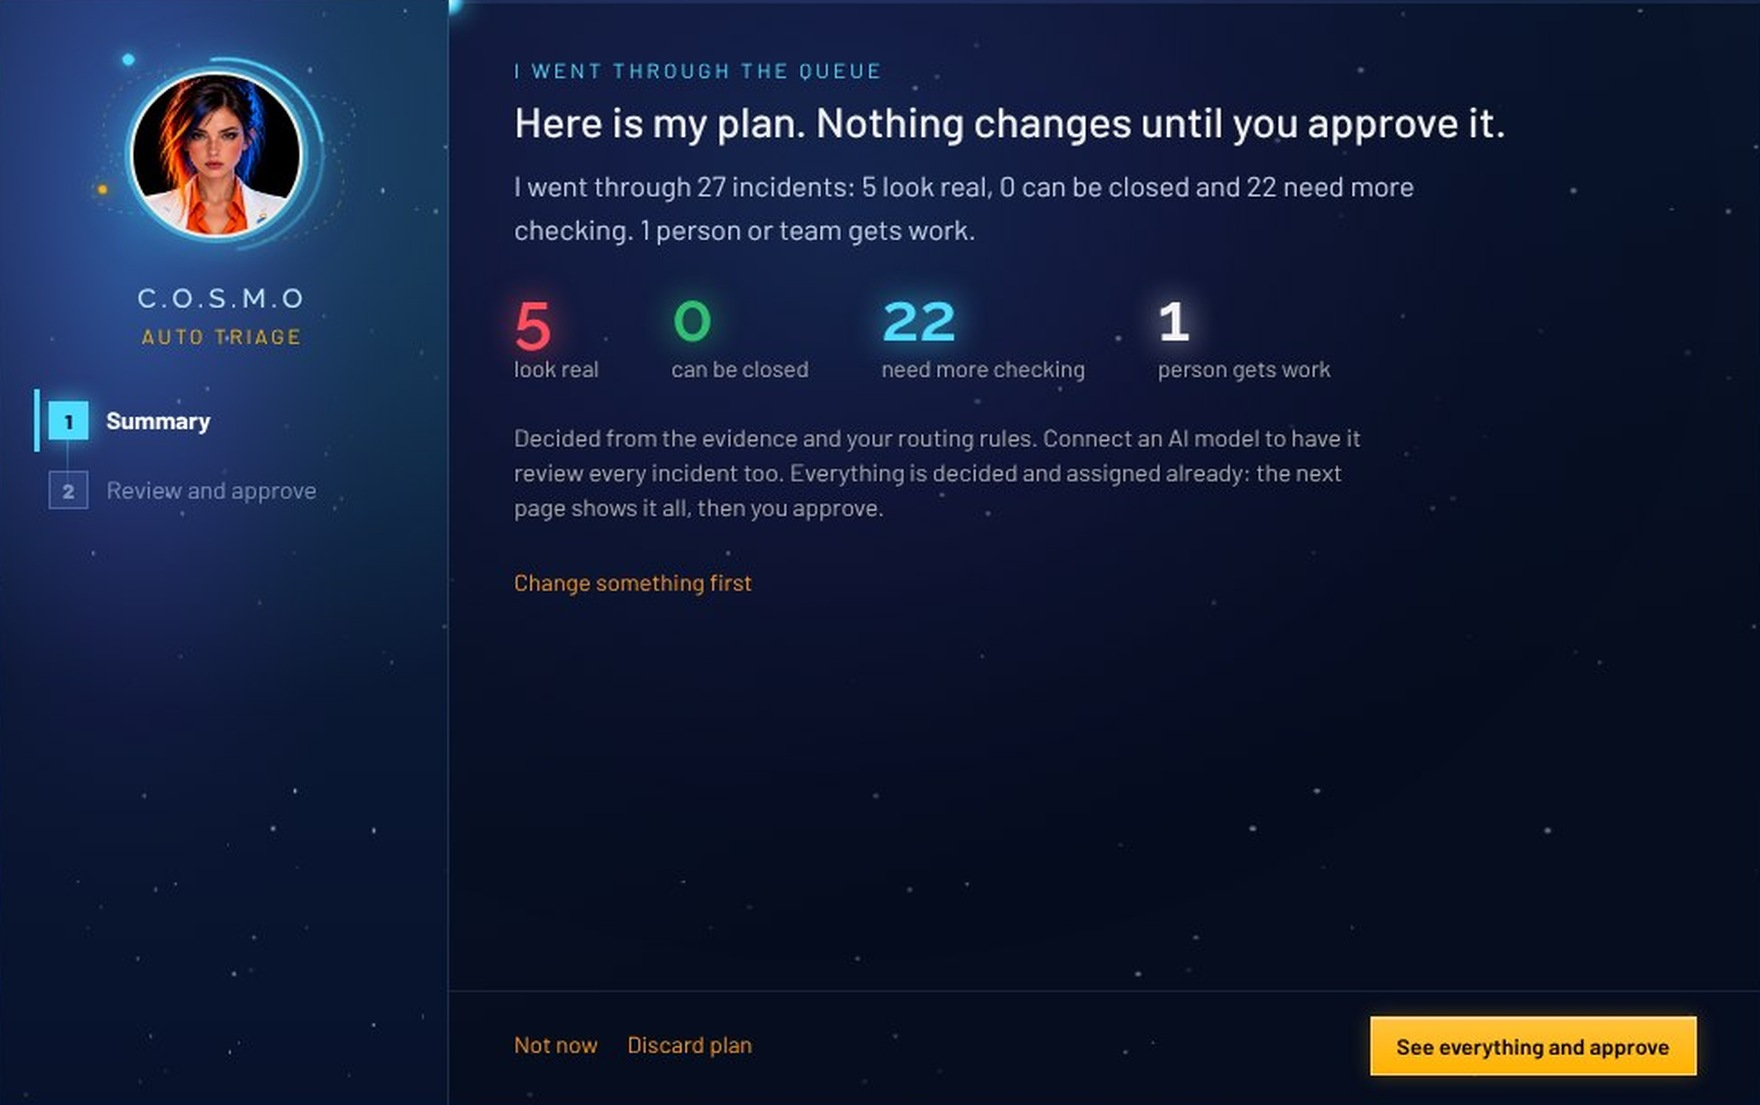
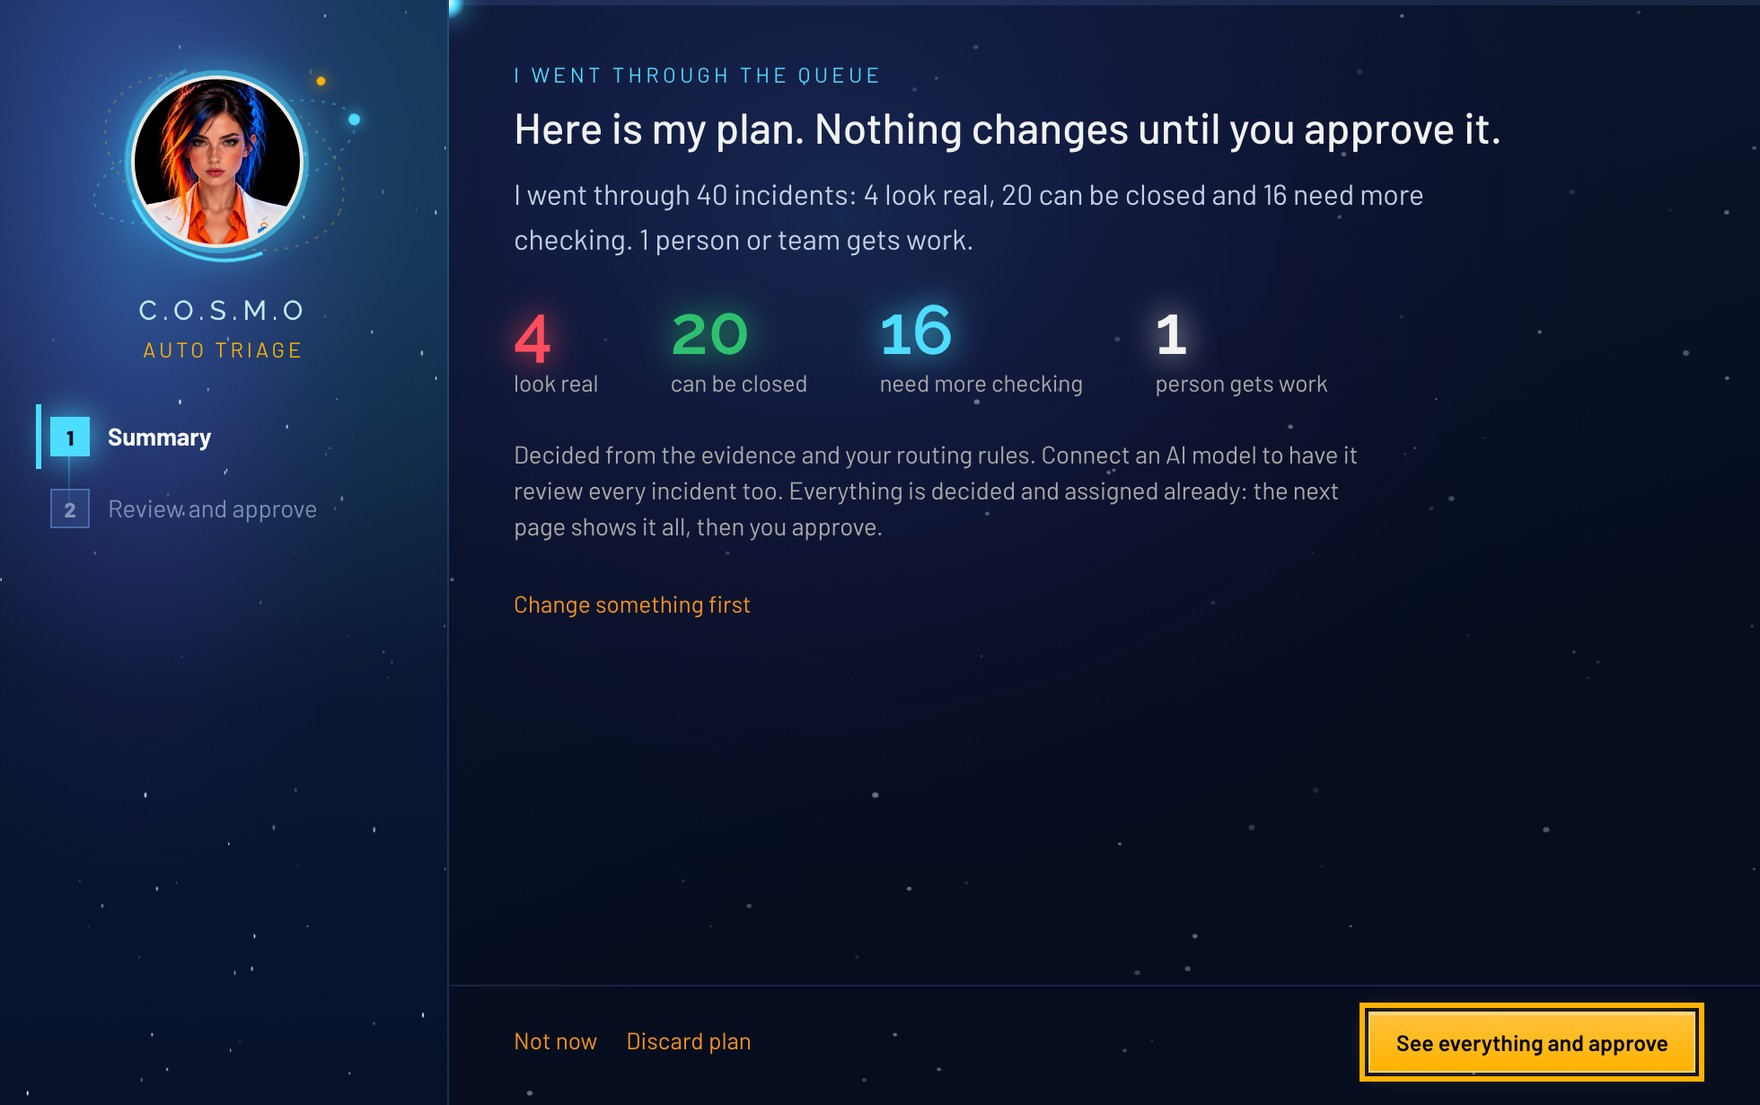
Bot screens: retaken sharp from a running C.O.S.M.O with demo data, at the laptop screen's exact ratio, no dark edge

diff --git a/security.html b/security.html
@@ -52,7 +52,7 @@
         
         <ul class="flow"><li class="flow-label">How it works</li><li class="step">C.O.S.M.O recommends</li><li class="arrow" aria-hidden="true"><svg viewBox="0 0 24 24" aria-hidden="true"><use href="#i-arrow"/></svg></li><li class="step person">Your team decides</li><li class="arrow" aria-hidden="true"><svg viewBox="0 0 24 24" aria-hidden="true"><use href="#i-arrow"/></svg></li><li class="step">Sealed record</li></ul>
       </div>
-      <div class="feature-media" data-reveal="right"><figure class="device-laptop "><div class="lid"><div class="screen"><img src="assets/img/bot-4-packs.jpg?v=20261109g" width="1760" height="1105" alt="Work orders for each team: firewall commands and rules, ready to copy or download. C.O.S.M.O writes them and your team applies them." loading="lazy"></div></div><div class="base"></div></figure></div>
+      <div class="feature-media" data-reveal="right"><figure class="device-laptop "><div class="lid"><div class="screen"><img src="assets/img/bot-4-packs.jpg?v=20261109n" width="1760" height="1105" alt="Work orders for each team: firewall commands and rules, ready to copy or download. C.O.S.M.O writes them and your team applies them." loading="lazy"></div></div><div class="base"></div></figure></div>
     </div>
   </div>
 </section>

diff --git a/index.html b/index.html
@@ -136,9 +136,9 @@
         <div class="morph-glass">
           <img src="assets/img/bot-5-chat.jpg?v=20261103c" alt="" loading="lazy">
           <img src="assets/img/bot-1-queue.jpg?v=20261103c" alt="" loading="lazy">
-          <img src="assets/img/bot-2-plan.jpg?v=20261109g" alt="" loading="lazy">
-          <img src="assets/img/bot-3-approve.jpg?v=20261109g" alt="" loading="lazy">
-          <img src="assets/img/bot-4-packs.jpg?v=20261109g" alt="" loading="lazy">
+          <img src="assets/img/bot-2-plan.jpg?v=20261109n" alt="" loading="lazy">
+          <img src="assets/img/bot-3-approve.jpg?v=20261109n" alt="" loading="lazy">
+          <img src="assets/img/bot-4-packs.jpg?v=20261109n" alt="" loading="lazy">
         </div>
         <img class="morph-frame" src="assets/img/mock/macbook-frame.png" alt="">
       </figure>
